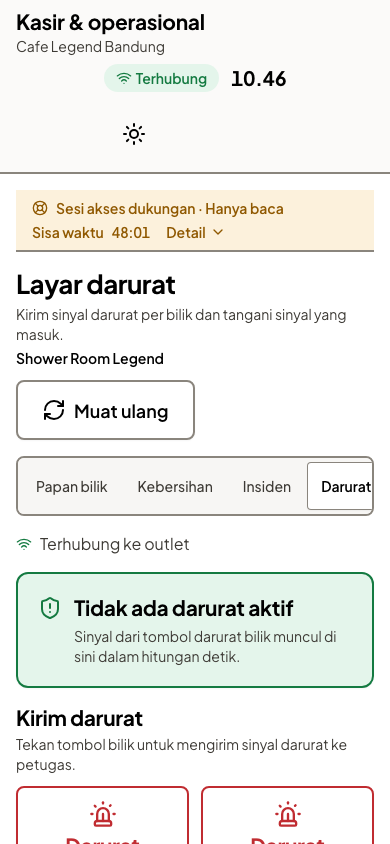
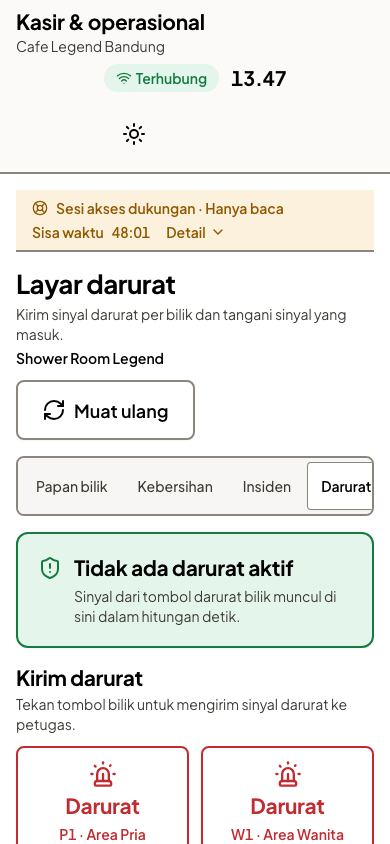
fix(panic): mock bawaan idle, sub-nav staf 4 kolom di layar sempit, routeTree dari generator, screenshot shell (legend-jztb7)

diff --git a/apps/web/src/features/facility-staff/components/staff-chrome.tsx b/apps/web/src/features/facility-staff/components/staff-chrome.tsx
@@ -47,6 +47,13 @@ export function StaffPageHeader({
   );
 }
 
+// Four equal columns below `sm` so every tab, "Darurat" last, stays visible at
+// 390 px and 320 px; labels may wrap to two lines there (legend-jztb7).
+const SUBNAV_TRIGGER = cn(
+  tabsTriggerClass,
+  "w-full justify-center px-1.5 text-center leading-tight whitespace-normal sm:w-auto sm:px-3.5 sm:whitespace-nowrap",
+);
+
 // Explicit links instead of a data array: each `to` stays a literal so the
 // router's generated route types check every path and its search shape.
 export function StaffSubNav({
@@ -62,14 +69,17 @@ export function StaffSubNav({
     <nav aria-label={t("facilityStaff.subnav.label")}>
       <ul
         data-slot="facility-staff-subnav"
-        className={cn(tabsListClass, "list-none")}
+        className={cn(
+          tabsListClass,
+          "grid w-full list-none grid-cols-4 sm:inline-flex sm:w-fit",
+        )}
       >
         <li>
           <Link
             to="/fasilitas"
             search={{ facilityId }}
             aria-current={link("board")}
-            className={tabsTriggerClass}
+            className={SUBNAV_TRIGGER}
           >
             {t("facilityStaff.subnav.board")}
           </Link>
@@ -79,7 +89,7 @@ export function StaffSubNav({
             to="/fasilitas/kebersihan"
             search={{ facilityId }}
             aria-current={link("cleaning")}
-            className={tabsTriggerClass}
+            className={SUBNAV_TRIGGER}
           >
             {t("facilityStaff.subnav.cleaning")}
           </Link>
@@ -89,7 +99,7 @@ export function StaffSubNav({
             to="/fasilitas/insiden"
             search={{ facilityId }}
             aria-current={link("incidents")}
-            className={tabsTriggerClass}
+            className={SUBNAV_TRIGGER}
           >
             {t("facilityStaff.subnav.incidents")}
           </Link>
@@ -99,7 +109,7 @@ export function StaffSubNav({
             to="/fasilitas/darurat"
             search={{ facilityId }}
             aria-current={link("emergency")}
-            className={tabsTriggerClass}
+            className={SUBNAV_TRIGGER}
           >
             {t("facilityStaff.subnav.emergency")}
           </Link>

diff --git a/apps/web/src/features/facility-staff/panic-mock-socket.ts b/apps/web/src/features/facility-staff/panic-mock-socket.ts
@@ -1,7 +1,8 @@
 // MOCK/DEMO ONLY (VITE_API_MOCK=true): a scripted stand-in for the staff
 // emergency WebSocket so the panic alert screens can be previewed without the
 // server. The scenario comes from localStorage["legend.mock.panic"]; the
-// default is "incoming". Frames use the real contract (panicRealtimeFrameSchema),
+// default is "idle": the layer sits on every /fasilitas screen, so a demo alert
+// only appears when a scenario is picked on purpose. Frames use the real contract (panicRealtimeFrameSchema),
 // so the realtime client parses them exactly like frames from the API.
 import { cafeLegendFacilityFixtures as fx } from "@starter/shared/facility";
 import type { PanicRealtimeFrame } from "@starter/shared/facility";
@@ -29,9 +30,9 @@ export function readPanicMockScenario(): PanicMockScenario {
     ).localStorage?.getItem(PANIC_MOCK_STORAGE_KEY);
     return (PANIC_MOCK_SCENARIOS as readonly unknown[]).includes(value)
       ? (value as PanicMockScenario)
-      : "incoming";
+      : "idle";
   } catch {
-    return "incoming";
+    return "idle";
   }
 }
 

diff --git a/apps/web/src/routeTree.gen.ts b/apps/web/src/routeTree.gen.ts
@@ -8382,3 +8382,13 @@ const rootRouteChildren: RootRouteChildren = {
 export const routeTree = rootRouteImport
   ._addFileChildren(rootRouteChildren)
   ._addFileTypes<FileRouteTypes>()
+
+import type { getRouter } from './router.tsx'
+import type { startInstance } from './start.ts'
+declare module '@tanstack/react-start' {
+  interface Register {
+    ssr: true
+    router: Awaited<ReturnType<typeof getRouter>>
+    config: Awaited<ReturnType<typeof startInstance.getOptions>>
+  }
+}
